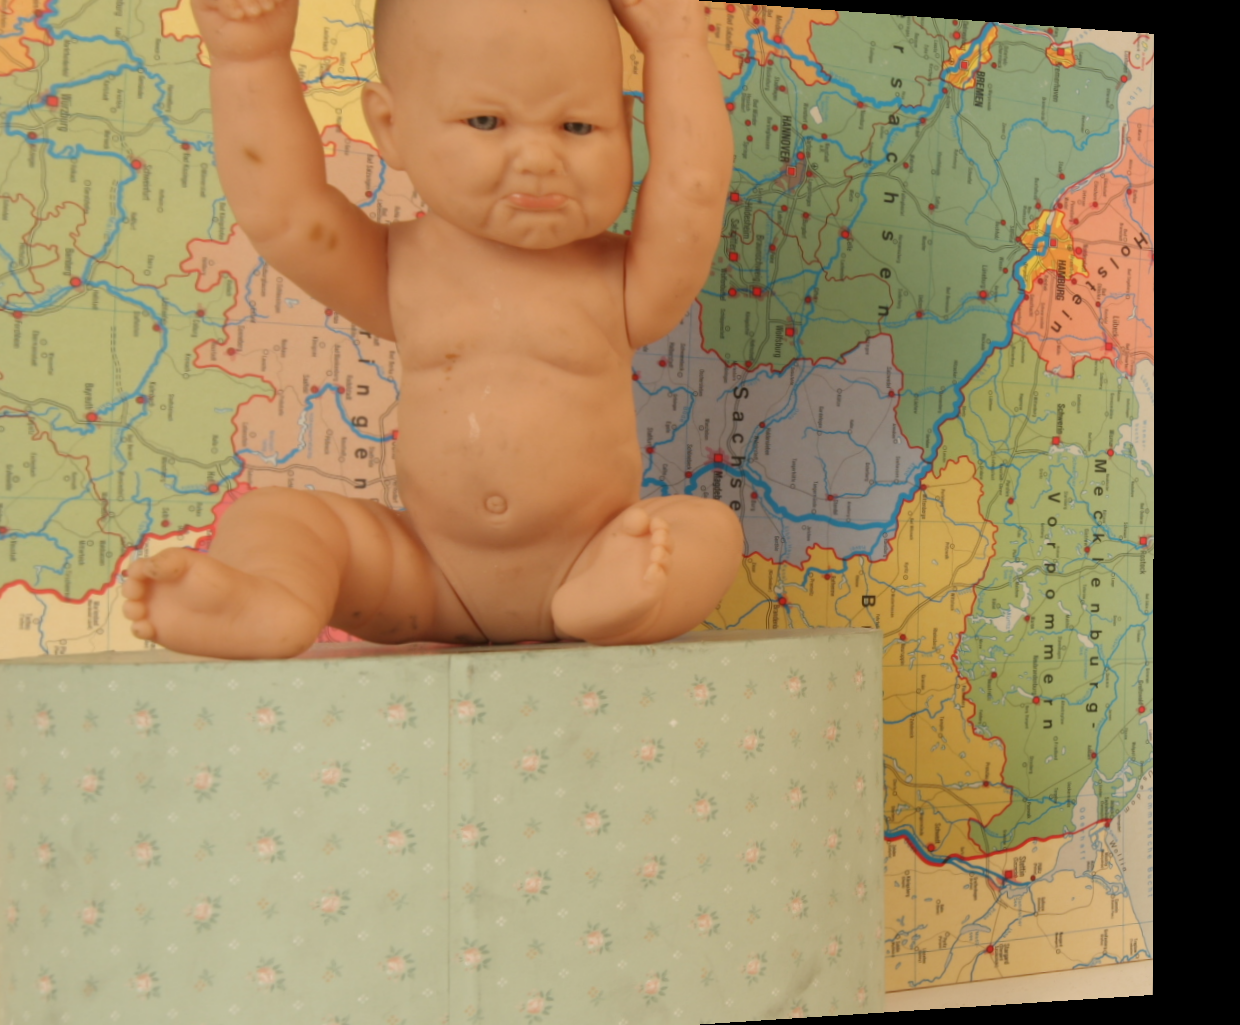
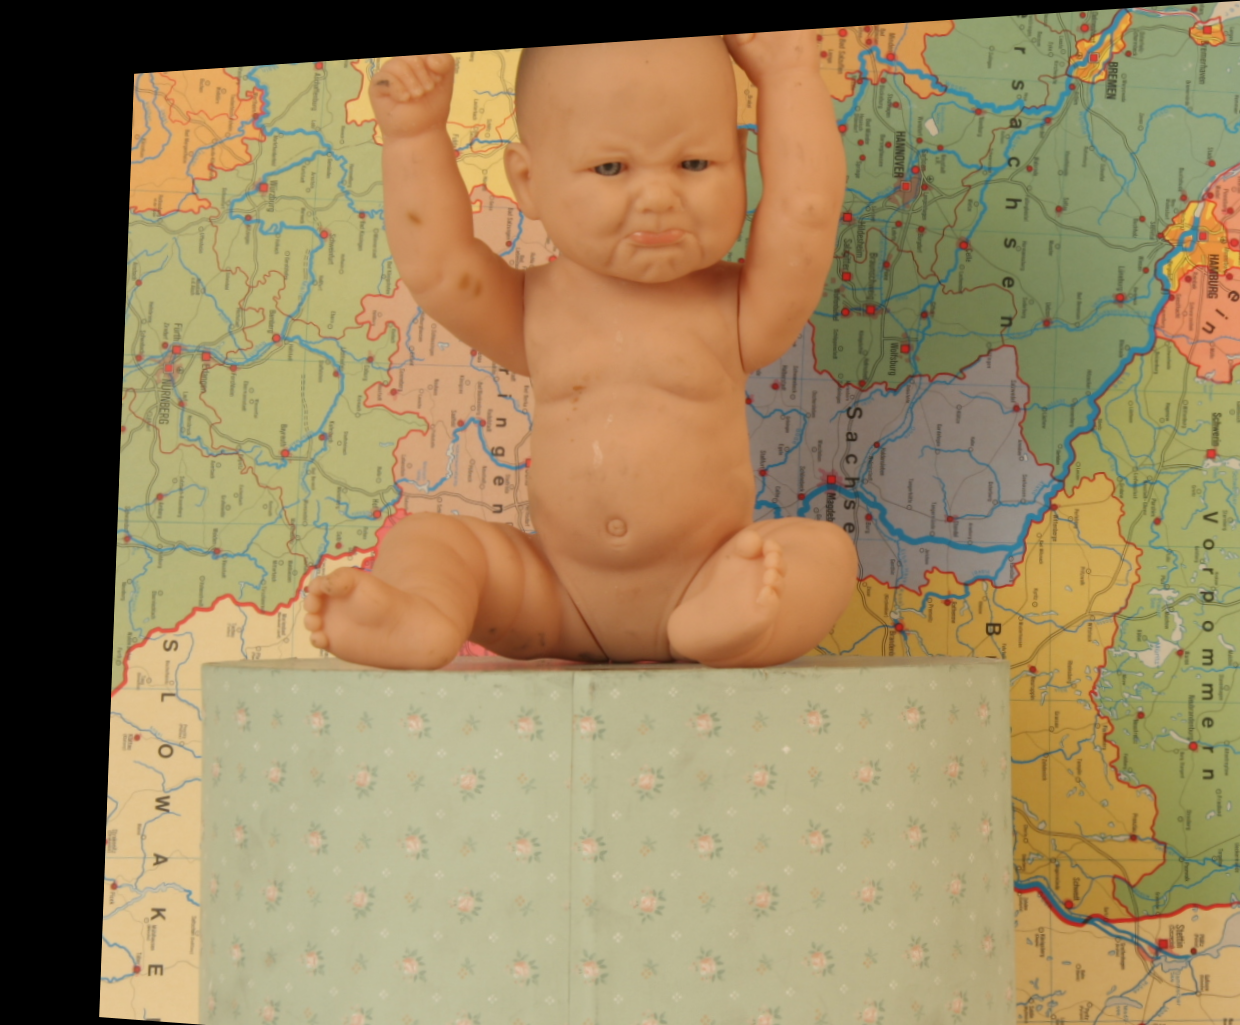
final

diff --git a/calibrage_stéréoscopique.py b/calibrage_stéréoscopique.py
@@ -84,16 +84,20 @@ R = R_cam_g.T @ R_cam_d
 T = R_cam_g.T @ (T_cam_d - T_cam_g)
 
 e1 = T / np.linalg.norm(T)
-e2 = np.array([ -T[1], T[0], 0]) / np.linalg.norm([-T[1],T[0]])
+e2 = np.array([ -T[1], T[0], 0]) / np.sqrt(T[0]**2 + T[1]**2)
 e3 = np.cross(e1,e2)
 
+
 Rg = np.array([e1,e2,e3])
-Rd = R.T @ Rg
+Rd = R @ Rg
 
 
-def rectification_inverse(img,O,S,z):
-    img_rect = np.zeros_like(img)
-
+def rectification_inverse(img,O,S,z,R):
+    
+    height, width = img.shape[:2]
+ 
+    m = np.zeros((height, width), dtype=np.float32)
+    n = np.zeros((height, width), dtype=np.float32)
 
     for i in range(img.shape[1]):
         for j in range(img.shape[0]):
@@ -102,46 +106,37 @@ def rectification_inverse(img,O,S,z):
             y = (j-O[1]) * S[1]
 
             q = np.array([x,y,z])
-            Q = Rg.T @ q
+            
+            Q = R.T @ q
+            
             p = (z / Q[2]) * Q
 
-            m = (p[0] / S[0]) + O[0]
-            n = (p[1] / S[1]) + O[1]
-            
-            
-            img_rect[j,i] = ut.bilinear_interpolation(img,m,n)
+            m[j,i] = (p[0] / S[0]) + O[0]
+            n[j,i] = (p[1] / S[1]) + O[1]
+                      
+    img_rect = cv.remap(img, m, n, interpolation=cv.INTER_LINEAR, borderMode=cv.BORDER_CONSTANT)
 
     return img_rect
 
 
 
 
-threads = []
 
-imgG = ut.CustomThread(target=rectification_inverse,args=(imageGauche,O_cam_g,S_cam_g,zprime_cam_g,))
-imgD = ut.CustomThread(target=rectification_inverse,args=(imageDroite,O_cam_d,S_cam_d,zprime_cam_d,))
-
-threads.extend([imgG,imgD])
-
-for t in threads:
-    t.start()
-
-
-imgFinalD =imgD.join() 
-imgFinalG = imgG.join()
+imgFinalD = rectification_inverse(imageDroite,O_cam_d,S_cam_d,zprime_cam_d,Rd)
+imgFinalG = rectification_inverse(imageGauche,O_cam_g,S_cam_g,zprime_cam_g,Rg)
 
 cv.imwrite('imgD.png',imgFinalD)
 cv.imwrite('imG.png',imgFinalG)
 
-# Afficher l'image rectifiée
+
 plt.imshow(imgFinalG, cmap='gray')
 plt.title('Image Gauche Rectifiée')
-plt.axis('off')  # Ne pas afficher les axes
+plt.axis('off')  
 plt.show()
 
 
-# Afficher l'image rectifiée
 plt.imshow(imgFinalD, cmap='gray')
 plt.title('Image Droite Rectifiée')
-plt.axis('off')  # Ne pas afficher les axes
+plt.axis('off')
 plt.show()
+
